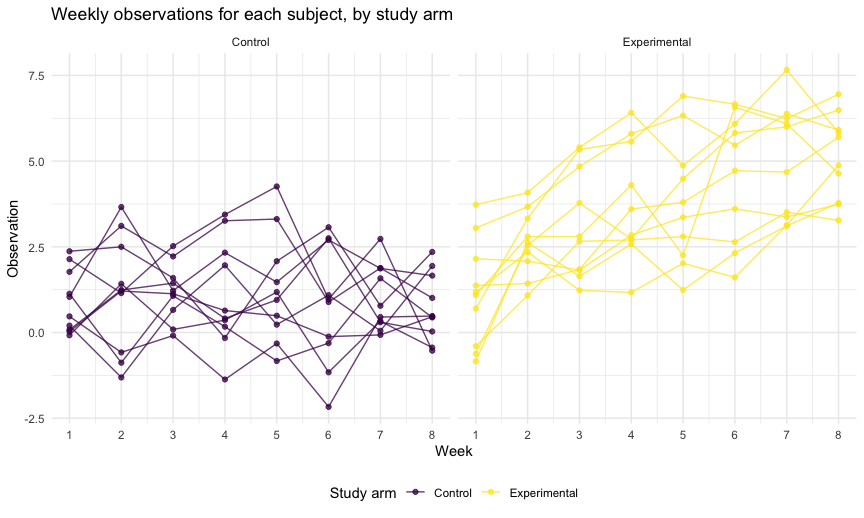
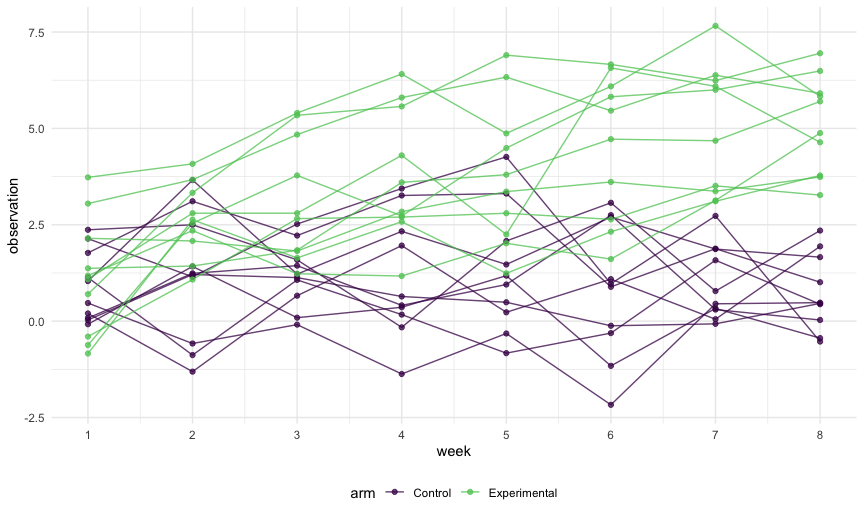
final touches

diff --git a/p8105_hw5_stt2133.md b/p8105_hw5_stt2133.md
@@ -26,11 +26,12 @@ set.seed(1118)
 
 bday_sim =
   expand_grid(
-    group_size = 2:50, 
+    group_size = 2:50,
     iter = 1:10000
   ) |>
   mutate(
-    repeated = map_lgl(group_size, shared_bday))
+    repeated = map_lgl(group_size, shared_bday)
+  )
 
 bday_results =
   bday_sim |>
@@ -54,8 +55,8 @@ bday_results |>
 <img src="p8105_hw5_stt2133_files/figure-gfm/bday-plot-1.png" alt="" width="90%" />
 
 The probability of a shared birthday rises quickly and non-linearly with
-groupsize. It is near zero for very small groups (0.0032 with 2 people),
-crosses 0.5 at a group size of 23, and reaches 0.9692 with 50 people.
+group size. It is near zero for very small groups (0.003 with 2 people),
+crosses 0.5 at a group size of 23, and reaches 0.969 with 50 people.
 
 ## Problem 2: Longitudinal study
 
@@ -106,17 +107,25 @@ study_df |>
   ggplot(aes(x = week, y = observation, group = participant, color = arm)) +
   geom_line(alpha = 0.75) +
   geom_point(alpha = 0.75) +
-  facet_grid(. ~ arm) +
   scale_x_continuous(breaks = 1:8) +
+  scale_color_viridis_d(end = 0.75)
+```
+
+<img src="p8105_hw5_stt2133_files/figure-gfm/spaghetti-plot-1.png" alt="" width="90%" />
+
+``` r
   labs(
     title = "Weekly observations for each subject, by study arm",
     x = "Week",
     y = "Observation",
     color = "Study arm"
   )
+## <ggplot2::labels> List of 4
+##  $ x     : chr "Week"
+##  $ y     : chr "Observation"
+##  $ colour: chr "Study arm"
+##  $ title : chr "Weekly observations for each subject, by study arm"
 ```
-
-<img src="p8105_hw5_stt2133_files/figure-gfm/spaghetti-plot-1.png" alt="" width="90%" />
 
 At week 1, the observations from the two arms look similar, with
 overlapping values. Over eight weeks, participants in the experimental
@@ -139,8 +148,8 @@ a one-sample t-test of $H_0: \mu = 0$ and extracts the sample mean and
 p-value.
 
 ``` r
-t_test_sim = function(mu) {
-  sample_data = rnorm(n = 30, mean = mu, sd = 5)
+t_test_sim = function(mu, n = 30, sigma = 5) {
+  sample_data = rnorm(n, mean = mu, sd = sigma)
 
   t_test_result = 
     t.test(sample_data, mu = 0) |>
@@ -175,18 +184,23 @@ power_results =
   )
 
 power_results |>
-  knitr::kable(digits = 3)
+  knitr::kable(
+    digits = 3,
+    col.names = c(
+      "True μ", "Power", "Avg. μ̂ (all)", "Avg. μ̂ (null rejected)"
+    )
+  )
 ```
 
-| true_mu | rejection_prop | avg_mu_hat | avg_mu_hat_rejected |
-|--------:|---------------:|-----------:|--------------------:|
-|       0 |          0.046 |      0.006 |               0.143 |
-|       1 |          0.195 |      1.007 |               2.250 |
-|       2 |          0.563 |      1.994 |               2.612 |
-|       3 |          0.884 |      3.001 |               3.194 |
-|       4 |          0.989 |      4.005 |               4.033 |
-|       5 |          1.000 |      5.021 |               5.021 |
-|       6 |          1.000 |      6.002 |               6.002 |
+| True μ | Power | Avg. μ̂ (all) | Avg. μ̂ (null rejected) |
+|-------:|------:|-------------:|-----------------------:|
+|      0 | 0.046 |        0.006 |                  0.143 |
+|      1 | 0.195 |        1.007 |                  2.250 |
+|      2 | 0.563 |        1.994 |                  2.612 |
+|      3 | 0.884 |        3.001 |                  3.194 |
+|      4 | 0.989 |        4.005 |                  4.033 |
+|      5 | 1.000 |        5.021 |                  5.021 |
+|      6 | 1.000 |        6.002 |                  6.002 |
 
 ### Effect size and power
 
@@ -205,6 +219,7 @@ power_results |>
 ```
 
 <img src="p8105_hw5_stt2133_files/figure-gfm/power-plot-1.png" alt="" width="90%" />
+
 Power increases with effect size. When the true mean is 0, the null
 hypothesis is true and the rejection proportion is 0.046, which aligns
 closely with the pre-specified type I error rate of 0.05. As the true
@@ -212,7 +227,7 @@ mean moves away from 0, the effect size ($\mu / \sigma$) increases and
 the test rejects the null hypothesis more frequently. With sample size
 and standard deviation held constant, a larger mean generates a stronger
 signal relative to the standard error. Specifically, power rises from
-0.1946 at $\mu = 1$ to 0.563 at $\mu = 2$, reaches 0.8844 at $\mu = 3$,
+0.195 at $\mu = 1$ to 0.563 at $\mu = 2$, reaches 0.884 at $\mu = 3$,
 and approaches 1 for $\mu \ge 4$. Overall, the relationship is S-shaped
 as power climbs steeply across moderate effect sizes before leveling off
 near 1 once the effect is large relative to sampling variability.
@@ -238,22 +253,23 @@ power_results |>
   geom_line() +
   scale_x_continuous(breaks = 0:6) +
   scale_y_continuous(breaks = 0:6) +
+  scale_color_viridis_d(end = 0.75) +
   labs(
     title = "Average estimated mean vs. true mean",
-    x = "True mean (μ)",
-    y = "Average estimated mean (μ̂)",
+    x = "True mean",
+    y = "Average estimated mean",
     color = "Samples included"
   )
 ```
 
-<img src="p8105_hw5_stt2133_files/figure-gfm/mu_plot-1.png" alt="" width="90%" />
+<img src="p8105_hw5_stt2133_files/figure-gfm/mu-plot-1.png" alt="" width="90%" />
 
 Across all samples, the average estimated mean is approximately equal to
 the true mean, consistent with the sample mean being unbiased. Among
 samples where the null hypothesis was rejected, the average estimated
 mean is larger than the true mean for small positive effects. For
 example, the average estimate conditioned on rejection is approximately
-2.2499 when $\mu = 1$ and 2.6119 when $\mu = 2$.
+2.250 when $\mu = 1$ and 2.612 when $\mu = 2$.
 
 The two-sided t-test rejects $H_0: \mu = 0$ when the sample mean is
 sufficiently far from zero (relative to its estimated standard error).
@@ -261,9 +277,9 @@ When the true positive effect is small, selecting significant results
 disproportionately retains samples with unusually large positive
 estimates, although significant negative estimates and underestimates
 can also occur. This selection inflates the conditional average. As the
-true mean increases (from $\mu \ge 4$) and power approaches one, almost
-all samples are retained, so the conditional (Null rejected samples) and
-unconditional (All samples) averages become nearly identical. When
+true mean increases (for $\mu \ge 4$) and power approaches one, almost
+all samples are retained, so the conditional (*Null rejected samples*)
+and unconditional (*All samples*) averages become nearly identical. When
 $\mu = 0$, the rejected samples are split between sufficiently extreme
 positive and negative estimates, so the average estimate among only
-those stay near 0 ($\hat{\mu} =$ 0.1433).
+those stays near 0 ($\hat{\mu} =$ 0.143).
